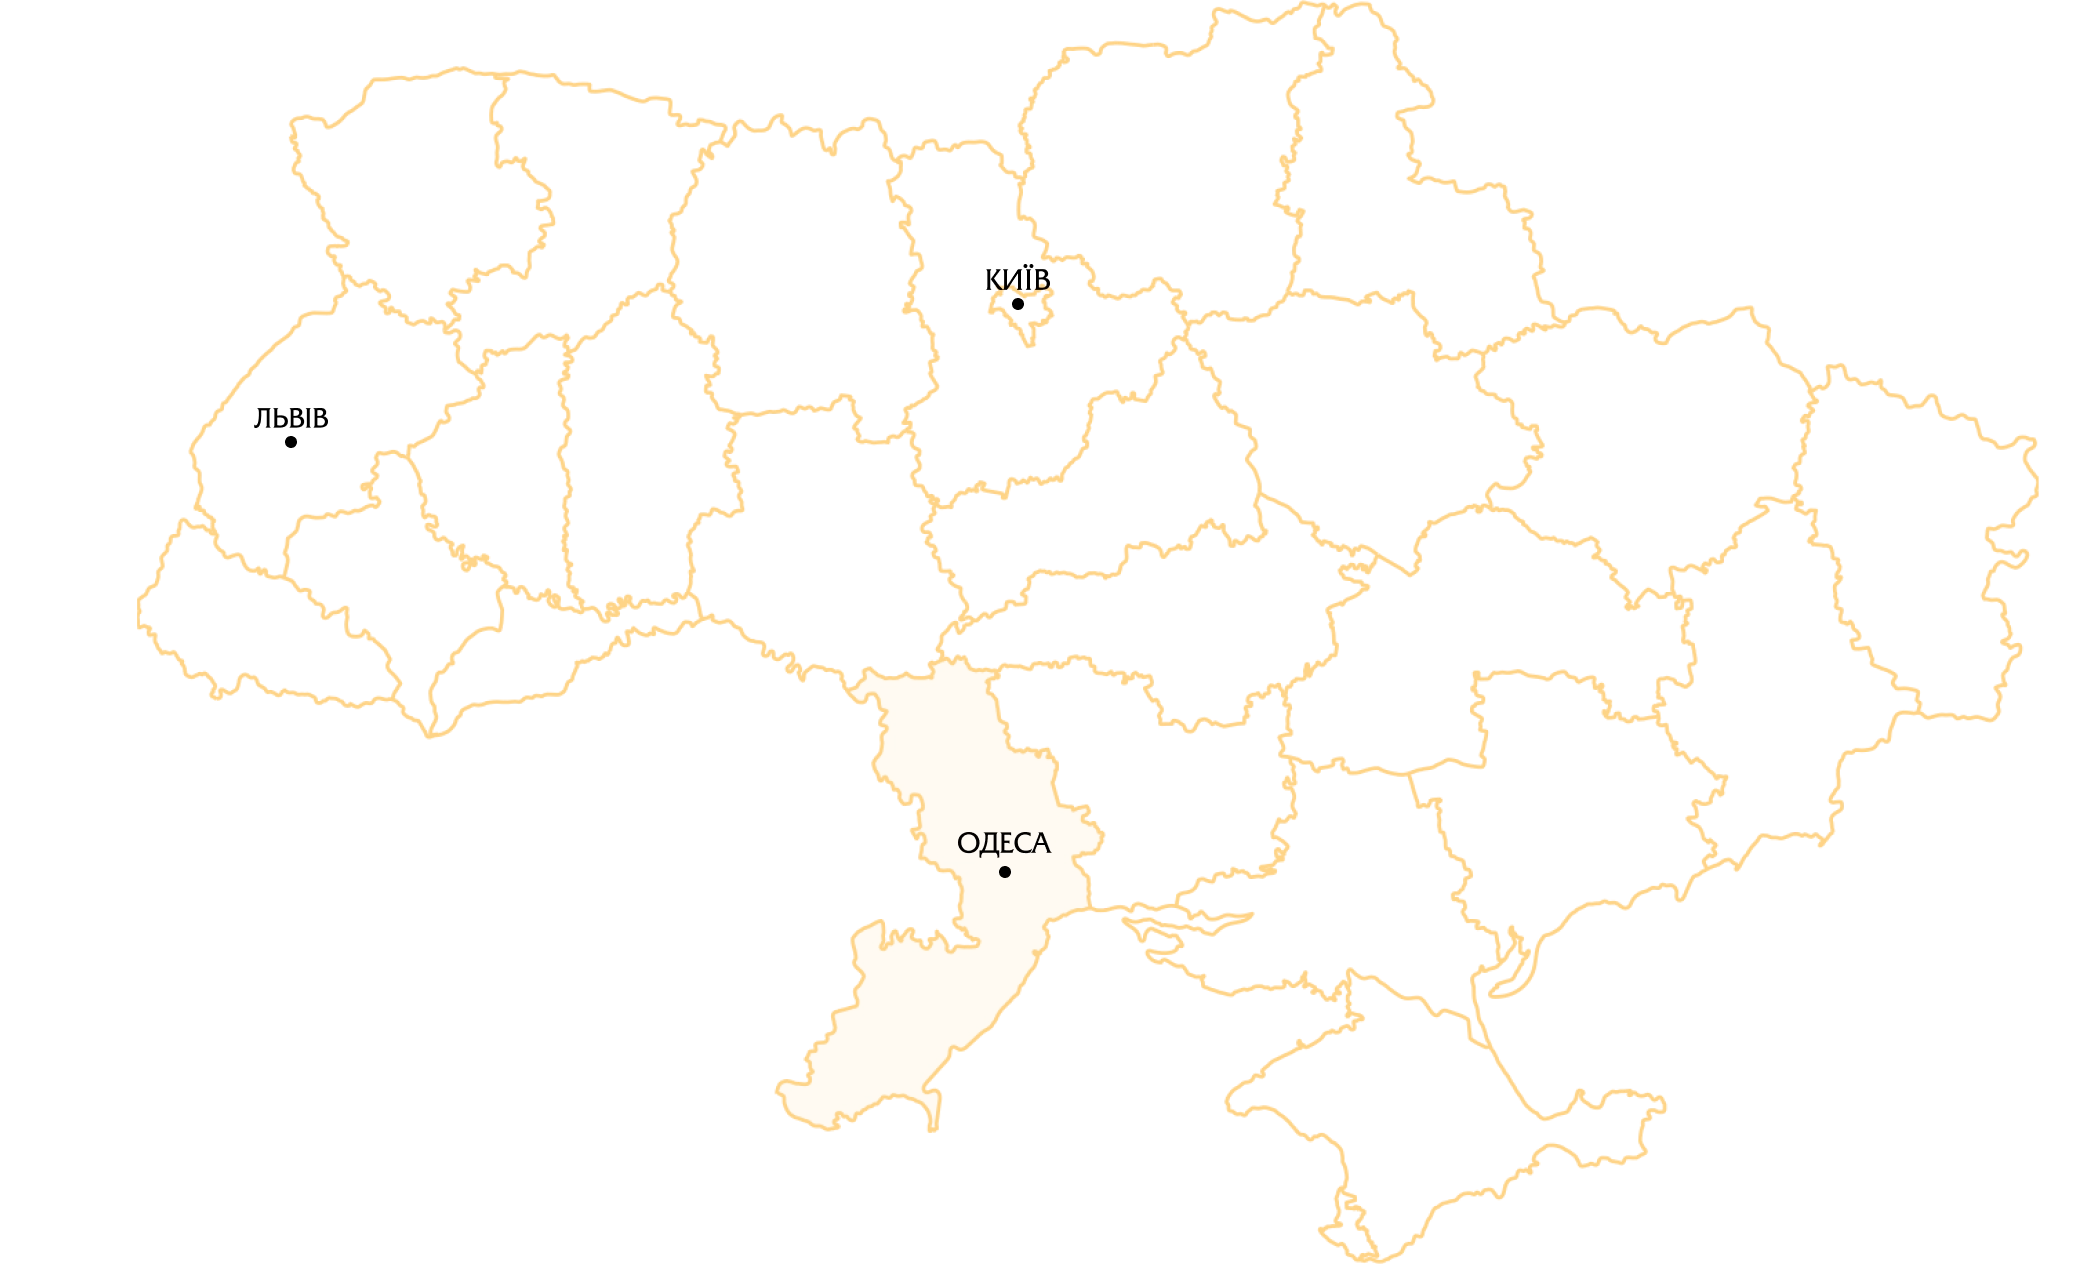
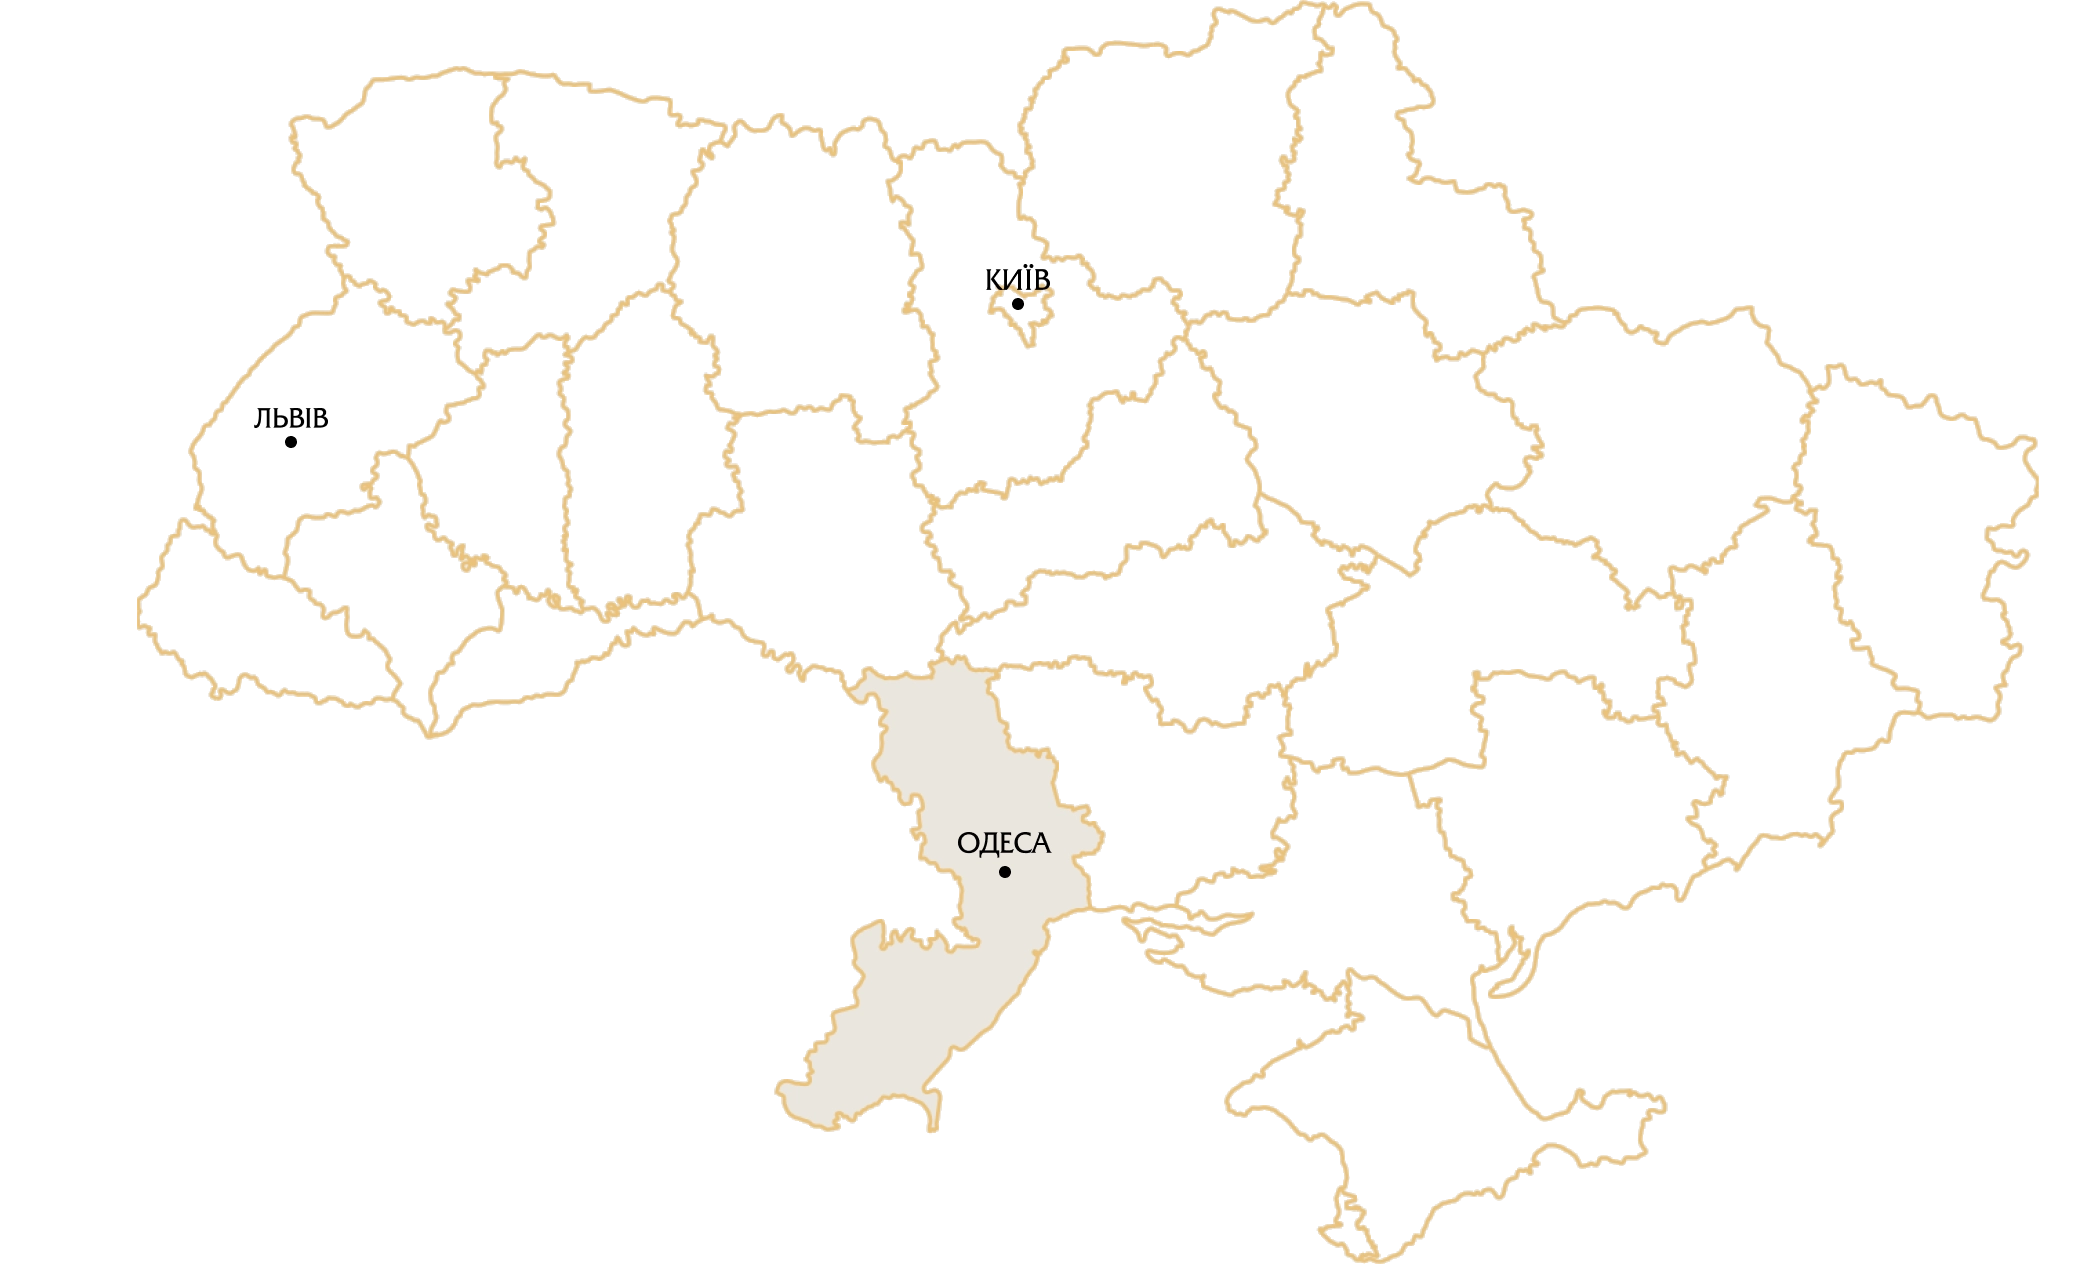
fix map filter

diff --git a/css/style.css b/css/style.css
@@ -868,14 +868,16 @@ video {
   margin: 0 auto;
 }
 
+.no-webp .footer__map {
+  background: url("../img/footer/map.png") 0 0/contain no-repeat;
+}
+
 .footer__map {
   position: absolute;
   top: 17.5vw;
   right: -14vw;
   width: 70vw;
-  background: url("../img/footer/map.svg") 0 0/contain no-repeat;
   height: 43vw;
-  mix-blend-mode: multiply;
 }
 
 .no-webp .footer__vegetable {
@@ -2414,6 +2416,10 @@ video {
   background-image: url(../img/backgrounds/bg-texture.webp);
 }
 
+.webp .footer__map {
+  background: url(../img/footer/map.webp) 0 0/contain no-repeat;
+}
+
 .webp .footer__vegetable {
   background: url(../img/footer/footer-vegetables.webp) 0 0/contain no-repeat;
 }
@@ -2961,8 +2967,11 @@ video {
     width: auto;
   }
 
+  .no-webp .footer__map {
+    background: url("../img/footer/map-mobile.png") 0 0/contain no-repeat;
+  }
+
   .footer__map {
-    background: url("../img/footer/map-mobile.svg") 0 0/contain no-repeat;
     width: calc(100% + 7vw);
     right: -7vw;
     height: 82vw;
@@ -2974,10 +2983,10 @@ video {
   }
 
   .footer__vegetable {
-    top: 80vw;
-    left: -7vw;
-    width: 36vw;
-    height: 36vw;
+    top: 75vw;
+    left: -22vw;
+    width: 60vw;
+    height: 44vw;
   }
 
   .footer__logo {
@@ -3860,6 +3869,10 @@ video {
 
   .webp .header__popup-contacts {
     background-image: url(../img/backgrounds/bg-texture.webp);
+  }
+
+  .webp .footer__map {
+    background: url(../img/footer/map-mobile.webp) 0 0/contain no-repeat;
   }
 
   .webp .footer__vegetable {
